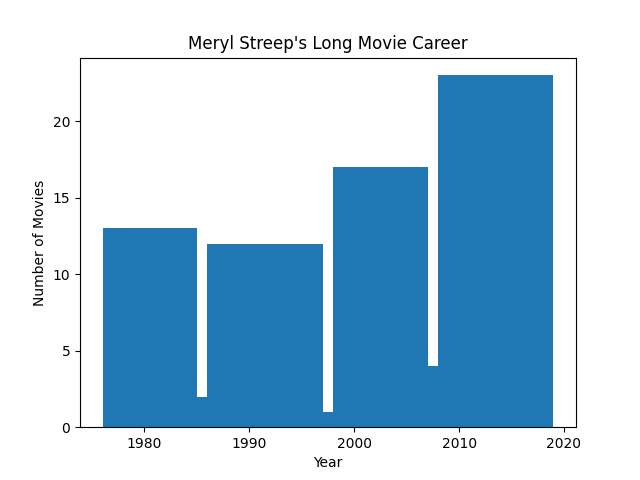
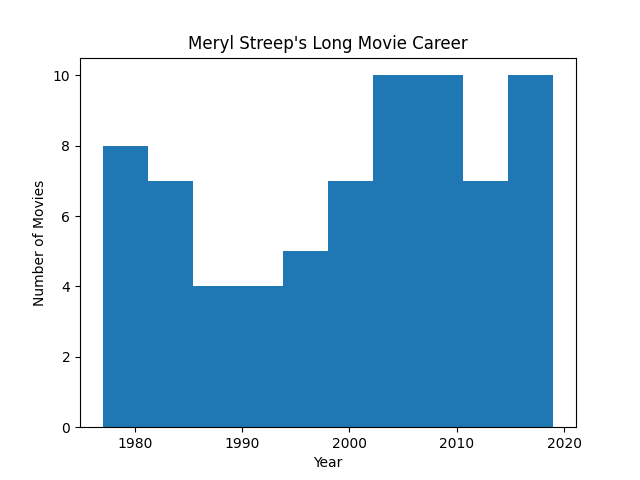
Change bins

diff --git a/main.py b/main.py
@@ -2,7 +2,7 @@ import matplotlib.pyplot as plt
 
 movie_year = [2019,2019,2018,2018,2017,2016,2016,2016,2015,2015,2014,2014,2014,2013,2012,2012,2011,2010,2010,2009,2009,2008,2008,2007,2007,2007,2007,2006,2006,2006,2006,2005,2004,2004,2003,2003,2003,2002,2002,2001,1999,1999,1998,1998,1997,1996,1996,1995,1994,1993,1992,1991,1990,1989,1988,1987,1986,1985,1985,1984,1983,1982,1982,1982,1981,1979,1979,1979,1978,1978,1977,1977]
 
-bins =[1976,1985, 1986,1997, 1998,2007, 2008,2019]
+bins = 10
 
 plt.hist(movie_year, bins, histtype="bar")
 
